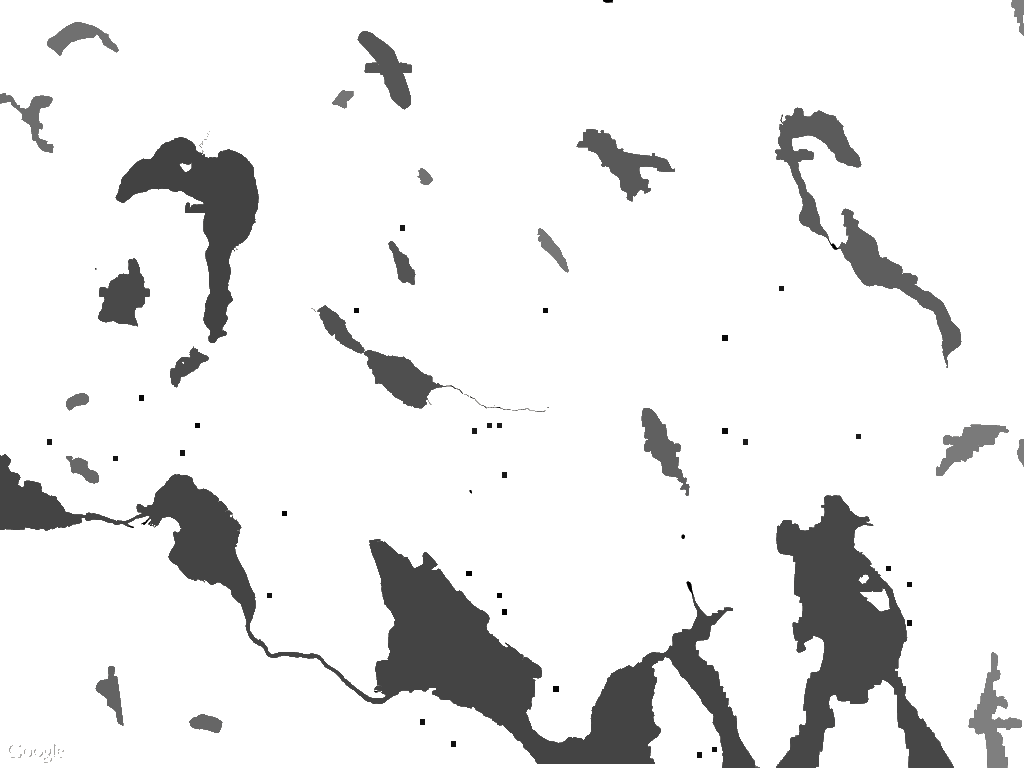
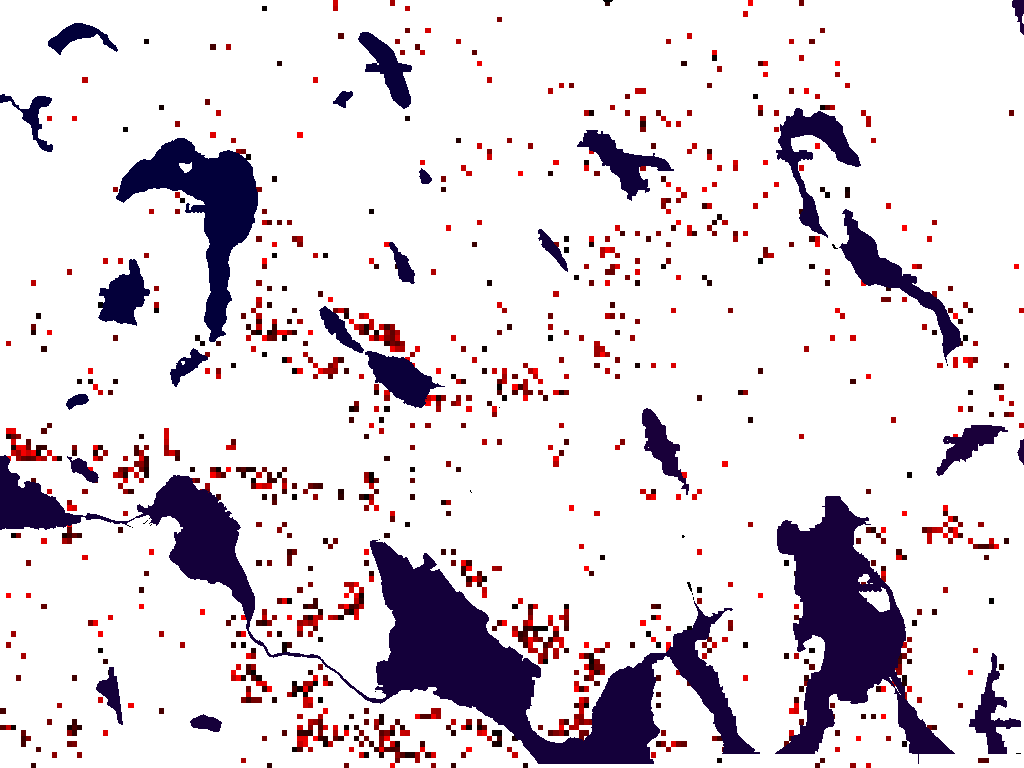
Nya zoner + rgb-zoner

diff --git a/sim/sim.js b/sim/sim.js
@@ -249,10 +249,12 @@
 
 	Simulation.prototype.getZone = function(x, y) {
 		var v0 = this.getPixelValue(this.zonemap.red, x, y);
-		var v2 = this.getPixelValue(this.zonemap.alpha, x, y);
-		if (v2 == 255)
-			return v0;
-		return 0;
+		var v1 = this.getPixelValue(this.zonemap.green, x, y);
+		var v2 = this.getPixelValue(this.zonemap.blue, x, y);
+		var v3 = this.getPixelValue(this.zonemap.alpha, x, y);
+		if (v3 < 255)
+			return 0;
+		return v0 + (v1 * 256) + (v2 * 65536);
 	}
 
 	Simulation.prototype.getDensity = function(x, y) {
